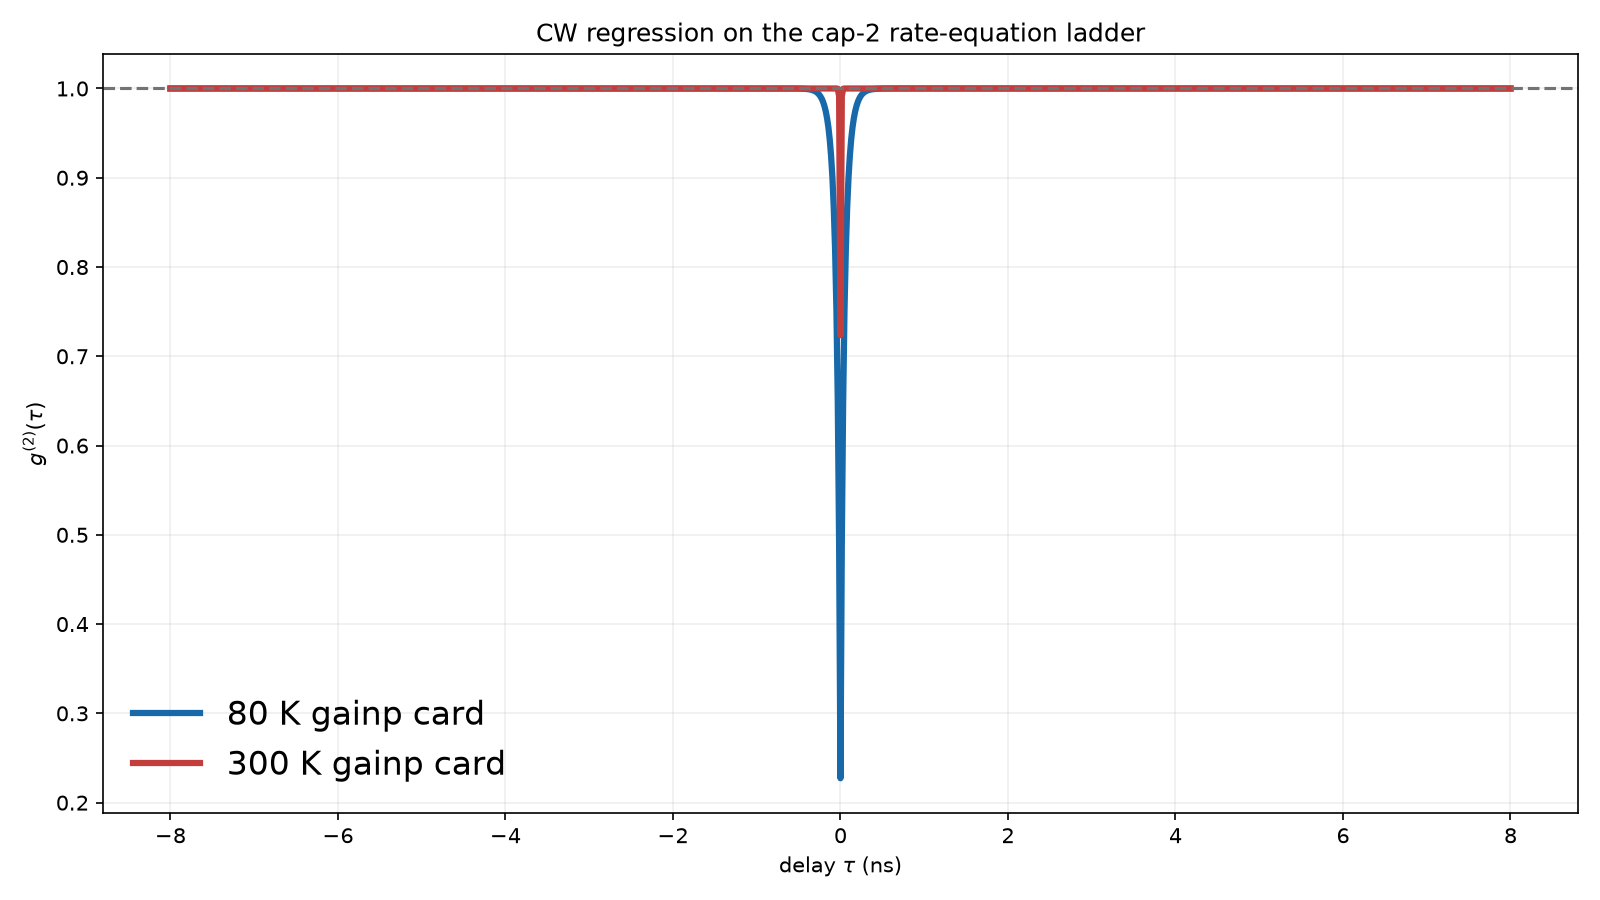
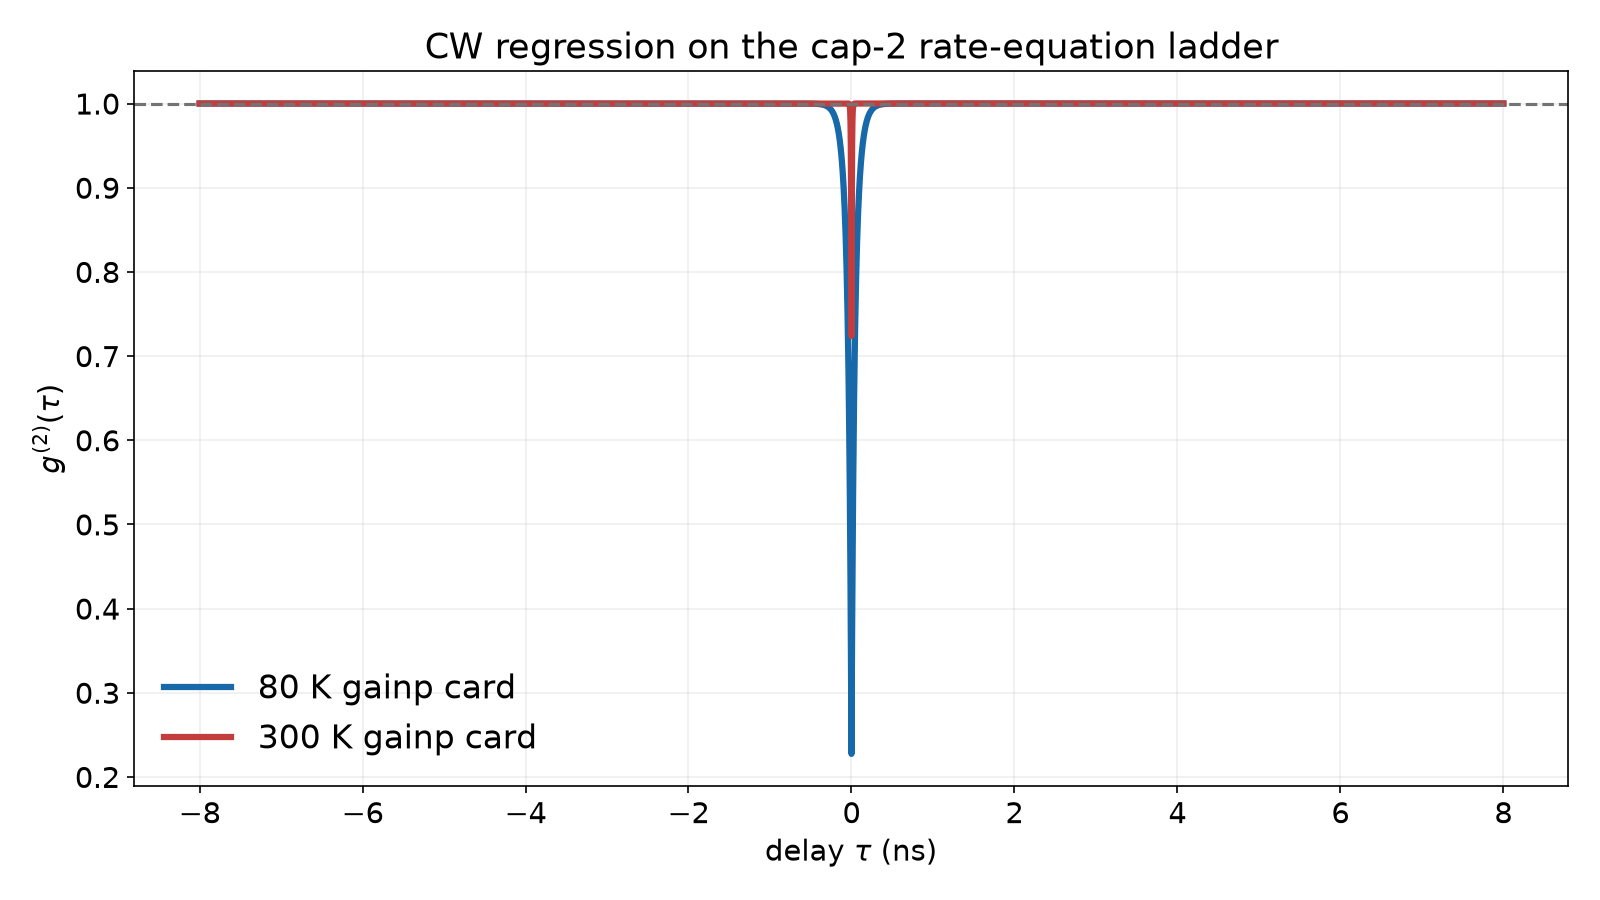
presentation2: section 2 fix pass 4 (codex-terra): honest 2x2 sweep grid, Bommer/Chatzarakis attribution, oscillator strength, cw tau grid, fonts
Claude-Session: https://claude.ai/code/session_01BQ7efTVkjp2fGYyjphSZC9

diff --git a/presentation2/figures/fig_02_22_landscape.py b/presentation2/figures/fig_02_22_landscape.py
@@ -1,12 +1,18 @@
-import os, csv
-import numpy as np
+import os
+import pandas as pd
 import matplotlib.pyplot as plt
+
+plt.rcParams['font.size'] = 14
 
 out = os.path.join(os.path.dirname(__file__), 'out', '02_22_landscape.png'); os.makedirs(os.path.dirname(out), exist_ok=True)
 src = os.path.abspath(os.path.join(os.path.dirname(__file__), '..', '..', 'out', 'rt_edge', 'sweep.csv'))
-with open(src, encoding='utf-8') as h: rows = list(csv.DictReader(h))
-g = sorted({float(x['gamma300_meV']) for x in rows}); d = sorted({float(x['delta_xx_meV']) for x in rows}); z = np.full((len(d), len(g)), np.nan)
-for x in rows: z[d.index(float(x['delta_xx_meV'])), g.index(float(x['gamma300_meV']))] = float(x['g2_pulsed'])
-fig, ax = plt.subplots(figsize=(1600/150, 900/150), dpi=150); im = ax.imshow(z, origin='lower', aspect='auto', extent=[min(g), max(g), min(d), max(d)], vmin=0, vmax=1, cmap='magma_r')
-fig.colorbar(im, ax=ax, label='pulsed $g^{(2)}(0)$'); ax.set(xlabel='$\\Gamma$ (meV)', ylabel='$\\Delta_{XX}$ (meV)', title='Repository sweep: linewidth versus biexciton separation')
+df = pd.read_csv(src)
+summary = df.groupby(['gamma300_meV', 'delta_xx_meV'])['g2_pulsed'].agg(['count', 'min', 'median', 'max']).reset_index()
+fig, ax = plt.subplots(figsize=(1600/150, 900/150), dpi=150)
+labels = [f"$\\Gamma$={r.gamma300_meV:.0f}, $\\Delta_{{XX}}$={r.delta_xx_meV:.0f}" for r in summary.itertuples()]
+ax.boxplot([df[(df.gamma300_meV == r.gamma300_meV) & (df.delta_xx_meV == r.delta_xx_meV)].g2_pulsed for r in summary.itertuples()], tick_labels=labels, patch_artist=True, boxprops={'facecolor': '#c43d3d', 'alpha': .55}, medianprops={'color': 'black', 'linewidth': 2})
+for i, r in enumerate(summary.itertuples(), 1):
+    ax.text(i, 0.97, f"n={r.count}\\nmin={r.min:.3f}", ha='center', va='top', fontsize=14)
+ax.set(ylim=(0, 1), ylabel='pulsed $g^{(2)}(0)$', title='Repository sweep: distributions in its four sampled cells')
+ax.grid(axis='y', alpha=.25)
 fig.tight_layout(); fig.savefig(out, facecolor='white'); plt.close(fig)

diff --git a/presentation2/figures/fig_02_14_cw.py b/presentation2/figures/fig_02_14_cw.py
@@ -2,13 +2,13 @@ import os, sys
 from pathlib import Path
 import numpy as np
 import matplotlib.pyplot as plt
+plt.rcParams['font.size'] = 14
 sys.path.insert(0, os.path.abspath(os.path.join(os.path.dirname(__file__), '..', '..')))
 from fsim_core import cw_g2
 from fsim_core.device import DeviceDesign, evaluate, _confinement_params
 
 out = os.path.join(os.path.dirname(__file__), 'out', '02_14_cw.png')
 os.makedirs(os.path.dirname(out), exist_ok=True)
-t = np.linspace(-8, 8, 1001)
 fig, ax = plt.subplots(figsize=(1600/150, 900/150), dpi=150)
 card = Path(__file__).resolve().parents[2] / 'cards' / 'edge-inp-gainp-design.yaml'
 for T, c in [(80, '#1769aa'), (300, '#c43d3d')]:
@@ -23,7 +23,7 @@ for T, c in [(80, '#1769aa'), (300, '#c43d3d')]:
     q = cw_g2.cw_report(
         float(sc['cw_r_ns']), gamma, 2.0 * gamma, kx, kxx, 1.0,
         float(sc['eps_op']), float(sc['cw_rho_op']), irf_fwhm_ps=0,
-        tau_max_ns=8, n_tau=1001)
+        tau_max_ns=8, n_tau=4001)
     ax.plot(q['curves']['tau'], q['curves']['g2_meas'], lw=3, color=c, label=f'{T} K gainp card')
 ax.axhline(1, ls='--', color='.45'); ax.set(xlabel='delay $\\tau$ (ns)', ylabel='$g^{(2)}(\\tau)$', title='CW regression on the cap-2 rate-equation ladder')
 ax.legend(frameon=False, fontsize=16); ax.grid(alpha=.2); fig.tight_layout(); fig.savefig(out, facecolor='white'); plt.close(fig)

diff --git a/presentation2/figures/fig_02_16_phonons.py b/presentation2/figures/fig_02_16_phonons.py
@@ -1,6 +1,7 @@
 import os, sys
 import numpy as np
 import matplotlib.pyplot as plt
+plt.rcParams['font.size'] = 14
 sys.path.insert(0, os.path.abspath(os.path.join(os.path.dirname(__file__), '..', '..')))
 from fsim_core.qd_gf import PhononParams, ibm_spectrum, zpl_weight
 

diff --git a/presentation2/figures/fig_02_17_linewidth.py b/presentation2/figures/fig_02_17_linewidth.py
@@ -1,6 +1,7 @@
 import os, sys
 import numpy as np
 import matplotlib.pyplot as plt
+plt.rcParams['font.size'] = 14
 sys.path.insert(0, os.path.abspath(os.path.join(os.path.dirname(__file__), '..', '..')))
 from fsim_core.linewidth import gamma_envelope
 

diff --git a/presentation2/figures/fig_02_11_hbt.py b/presentation2/figures/fig_02_11_hbt.py
@@ -1,6 +1,7 @@
 import os, sys
 import numpy as np
 import matplotlib.pyplot as plt
+plt.rcParams['font.size'] = 14
 sys.path.insert(0, os.path.abspath(os.path.join(os.path.dirname(__file__), '..', '..')))
 from fsim_core.cw_g2 import g2_two_level
 

diff --git a/presentation2/figures/fig_02_15_irf.py b/presentation2/figures/fig_02_15_irf.py
@@ -1,6 +1,7 @@
 import os, sys
 import numpy as np
 import matplotlib.pyplot as plt
+plt.rcParams['font.size'] = 14
 sys.path.insert(0, os.path.abspath(os.path.join(os.path.dirname(__file__), '..', '..')))
 from fsim_core.cw_g2 import convolve_irf
 

diff --git a/presentation2/figures/fig_02_19_spectral.py b/presentation2/figures/fig_02_19_spectral.py
@@ -1,6 +1,7 @@
 import os, sys
 import numpy as np
 import matplotlib.pyplot as plt
+plt.rcParams['font.size'] = 14
 sys.path.insert(0, os.path.abspath(os.path.join(os.path.dirname(__file__), '..', '..')))
 from fsim_core.spectral import epsilon
 

diff --git a/presentation2/figures/fig_02_20_retention.py b/presentation2/figures/fig_02_20_retention.py
@@ -1,6 +1,7 @@
 import os, sys
 import numpy as np
 import matplotlib.pyplot as plt
+plt.rcParams['font.size'] = 14
 sys.path.insert(0, os.path.abspath(os.path.join(os.path.dirname(__file__), '..', '..')))
 from fsim_core import dot_levels
 
